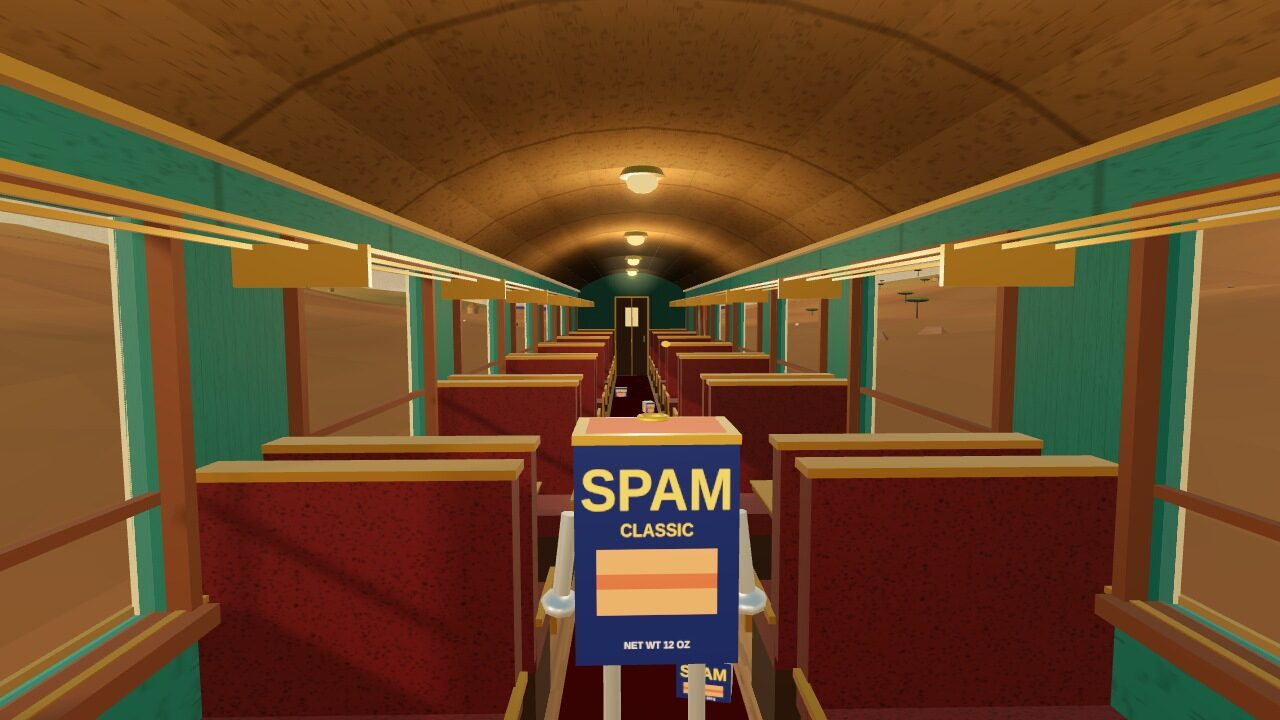
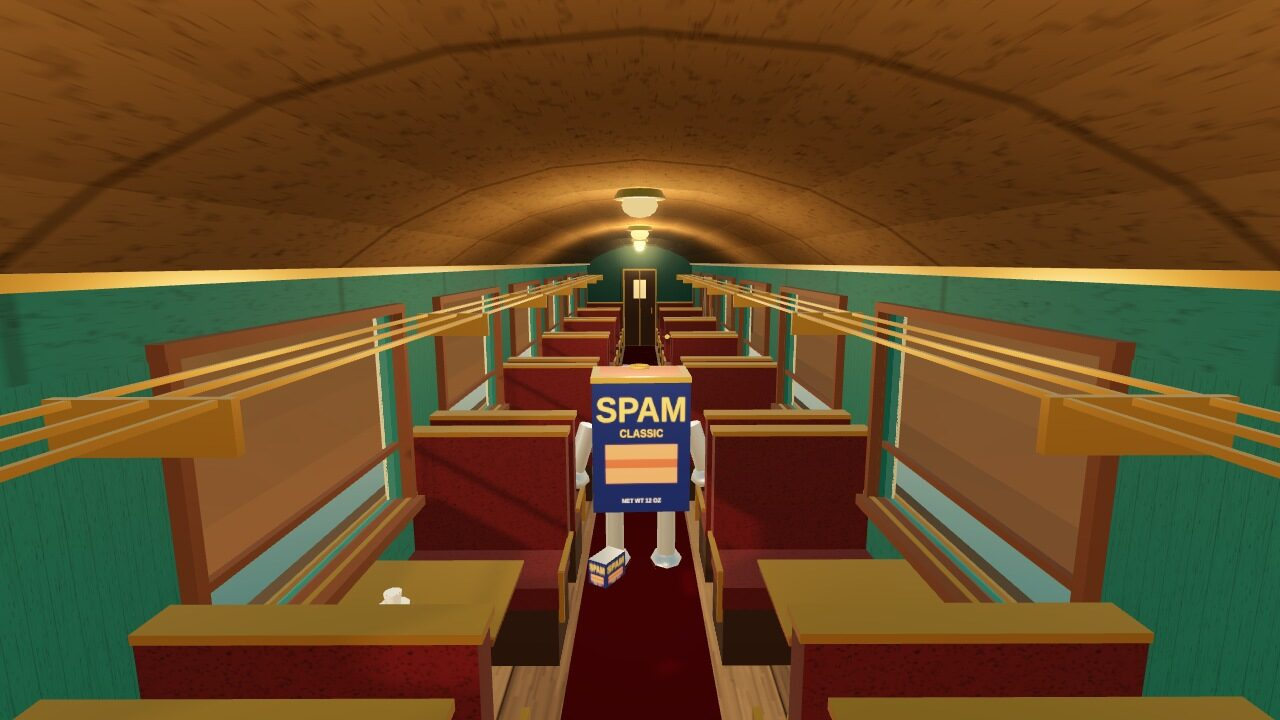
SPAM on a Train: a seed that shows the whole can
Reframed with the high rear camera (also used by the run rehearsal) so the tin, its arms,
legs and feet and the door ahead are all in frame; larger limbs; the heist's loose cans
are hidden outside Game.

Claude-Session: https://claude.ai/code/session_012XUjiQunF2Sqay1mq7DX2m

diff --git a/train/js/main.js b/train/js/main.js
@@ -209,7 +209,7 @@ function frame() {
   const loc = stepActor(dt); stepTake(dt); stepRun();
   const portal = worlds ? worlds.nearest(tmp.set(actor.x, DIM.FLOOR + 1.2, actor.z), 3.2) : null, own = worlds && worlds.portals.find(p => p.car === loc.car);
   const ctx = { a: actor, car: loc.car, aisleZ: loc.aisleZ, side: actor.seated ? Math.sign(actor.z) || 1 : (own && Math.abs(own.pos.z) > .5 ? Math.sign(own.pos.z) : 1), bee: bees.lead, t: state.t, dist: journey.dist, speed: journey.speed, noseX: train.noseX, tailX: train.tailX };
-  ctx.shoulder = state.shoulder; ctx.heist = game.mode === 'game';
+  ctx.shoulder = state.shoulder; ctx.heist = game.mode === 'game'; ctx.high = state.high || run.on;   // the run and its seed use the high rear camera: whole body, feet and the door ahead
   if (ctx.heist && !state.bee && !run.on && rig.st.shot.id !== 'follow') setShot('follow', true);
   if (ctx.heist && !state.bee) { input.yaw = input.pitch = 0; rig.st.yaw = rig.st.pitch = 0; rig.st.zoom = 1; }   // the heist camera is fixed: a stray drag must not tip the lens
   if (ctx.heist) { const cN = cars[cars.length - 1]; if (actor.x < cN.x + cN.walkMin + .6) actor.cam = 1; if (actor.x > cars[0].x - DIM.L / 2 + 2.2) actor.cam = -1; }
@@ -268,7 +268,7 @@ async function seed(id) {
   const c = cars[sd.car]; state.take = false; state.walkGoal = null; journey.dist = sd.km * 1000; journey.phase = 'run'; journey.speed = journey.cruise;
   if (sd.seat !== undefined) { const st = sd.seat < 0 ? c.playerSeat : c.seats[sd.seat]; actor.seated = true; actor.seat = { car: c, ...st }; actor.x = c.x + st.x; actor.z = st.z; actor.dir = st.face; }
   else { actor.seated = false; actor.x = c.x + sd.x; actor.dir = sd.dir || -1; actor.z = c.aisleZ + (sd.z || 0); actor.yaw = actor.dir * Math.PI / 2; if (sd.walk) state.walkGoal = actor.x + actor.dir * sd.walk; }
-  state.forceSwarm = !!sd.swarm; state.empty = !!sd.empty; setCans(!!sd.cans); if (sd.cans && game.mode === 'game') gameSys.setMode('world'); setShot(sd.shot); const st = rig.st; st.yaw = sd.yaw || 0; st.pitch = sd.pitch || 0; st.zoom = sd.zoom || 1; if (sd.mt !== undefined) st.mem.t0 = state.t - sd.mt;
+  state.forceSwarm = !!sd.swarm; state.empty = !!sd.empty; setCans(!!sd.cans); state.high = !!sd.high; actor.cam = actor.dir; if (sd.cans && game.mode === 'game') gameSys.setMode('world'); setShot(sd.shot); const st = rig.st; st.yaw = sd.yaw || 0; st.pitch = sd.pitch || 0; st.zoom = sd.zoom || 1; if (sd.mt !== undefined) st.mem.t0 = state.t - sd.mt;
   document.body.classList.add('nohud'); return sd;
 }
 function b64(buf) { let s = ''; const u = new Uint8Array(buf); for (let i = 0; i < u.length; i += 32768) s += String.fromCharCode.apply(null, u.subarray(i, i + 32768)); return btoa(s); }
@@ -298,7 +298,7 @@ const run = { on: false, cars: [], n: 1 };
 async function startRun() {
   if (!seeds) seeds = (await (await fetch('data/seeds.json')).json()).seeds;
   const spam = params.get('run') !== 'worlds';   // ?run is SPAM on a Train; ?run=worlds is the earlier corpus run
-  run.cars = spam ? (await (await fetch('data/spam_session.json')).json()).run.map((c, k) => ({ ...c, car: k + 1 })) : seeds.filter(x => x.run).sort((a, b) => a.run - b.run); run.on = true; run.n = 1; state.take = false; state.stings = 0; state.empty = spam || !!run.cars[0].empty; setCans(spam); if (game.mode === 'game') gameSys.setMode('world');
+  run.cars = spam ? (await (await fetch('data/spam_session.json')).json()).run.map((c, k) => ({ ...c, car: k + 1 })) : seeds.filter(x => x.run).sort((a, b) => a.run - b.run); run.on = true; run.n = 1; actor.cam = -1; state.take = false; state.stings = 0; state.empty = spam || !!run.cars[0].empty; setCans(spam); if (game.mode === 'game') gameSys.setMode('world');
   if (worlds && worlds.stage.active) await worlds.exit();
   actor.seated = false; actor.x = cars[1].x + 5.6; actor.z = 0; actor.dir = -1; actor.yaw = -Math.PI / 2; state.walkGoal = null; rig.set('follow'); ui.shot('follow', false);
   document.body.classList.add('run'); ui.cue(run.cars[0], 1, run.cars.length, true); stub('The run', 'one session · hold W · a cue at every door'); return true;

diff --git a/train/js/cans.js b/train/js/cans.js
@@ -8,7 +8,7 @@ function label(k) { if (!texCache.has(k)) { const [name, a, b] = FLAVORS[k % FLA
     q.fillStyle = '#e9a26a'; q.fillRect(34, 150, 188, 96); q.fillStyle = '#c96a4a'; q.fillRect(34, 186, 188, 22); q.fillStyle = b; q.font = '800 26px Arial, sans-serif'; q.fillText(name, 128, 124, 236); q.fillStyle = '#fff'; q.font = '700 15px Arial'; q.fillText('NET WT 12 OZ', 128, 292);
     const t = new THREE.CanvasTexture(c); t.colorSpace = THREE.SRGBColorSpace; t.anisotropy = 4; texCache.set(k, t); } return texCache.get(k); }
 const tin = new THREE.MeshStandardMaterial({ color: 0xb9bfc2, metalness: .9, roughness: .28 }), gold = new THREE.MeshStandardMaterial({ color: 0xe0b23a, metalness: .9, roughness: .3 }), meat = new THREE.MeshLambertMaterial({ color: 0xe9968a }), white = new THREE.MeshBasicMaterial({ color: 0xffffff }), black = new THREE.MeshBasicMaterial({ color: 0x111111 });
-const W = .6, H = .82, D = .4, LEG = .42, limbG = new THREE.CylinderGeometry(.035, .035, 1, 8), bodyG = new THREE.BoxGeometry(W, H, D), jointG = new THREE.SphereGeometry(.06, 8, 6);
+const W = .6, H = .82, D = .4, LEG = .42, limbG = new THREE.CylinderGeometry(.06, .06, 1, 8), bodyG = new THREE.BoxGeometry(W, H, D), jointG = new THREE.SphereGeometry(.085, 8, 6);
 export function makeCan(k = 0) {
   const g = new THREE.Group(), body = new THREE.Group(); g.add(body); body.position.y = LEG + H / 2;
   const side = new THREE.MeshStandardMaterial({ map: label(k), roughness: .4, metalness: .25 }), plain = new THREE.MeshStandardMaterial({ color: FLAVORS[k % FLAVORS.length][1], roughness: .4, metalness: .25 });
@@ -18,10 +18,11 @@ export function makeCan(k = 0) {
   for (const s of [-1, 1]) { const e = new THREE.Mesh(new THREE.SphereGeometry(.06, 10, 8), white), p = new THREE.Mesh(new THREE.SphereGeometry(.03, 8, 6), black); e.position.set(s * .13, H * .33, D / 2 + .02); p.position.set(s * .13, H * .33, D / 2 + .07); body.add(e, p); }
   const limb = (x, y, len) => { const pivot = new THREE.Group(); pivot.position.set(x, y, 0); const m = new THREE.Mesh(limbG, tin); m.scale.y = len; m.position.y = -len / 2; const j = new THREE.Mesh(jointG, tin); j.position.y = -len; j.scale.set(1.3, .7, 1.8); pivot.add(m, j); return pivot; };
   const legs = [-1, 1].map(s => { const l = limb(s * .17, LEG, LEG); g.add(l); return l; }), arms = [-1, 1].map(s => { const a = limb(s * (W / 2 + .03), H * .12, .36); body.add(a); return a; });
+  g.scale.setScalar(1.15);   // head-high to a seated passenger, so arms and legs read from behind
   let ph = Math.random() * 6, open = 0;
   return { group: g, k, /** speed in m/s; sitting folds the legs forward; lidOpen 0..1 shows the loaf */
     update(dt, speed, sitting, lidOpen = 0) { const w = Math.min(1, speed / .5); ph += dt * (4 + speed * 5) * (w > .05 ? 1 : .15); const sw = Math.sin(ph) * .7 * w;
-      legs[0].rotation.x = sitting ? -1.5 : sw; legs[1].rotation.x = sitting ? -1.5 : -sw; arms[0].rotation.x = -sw * .8 + (lidOpen > .3 ? -2.2 * lidOpen : 0); arms[1].rotation.x = sw * .8; arms[0].rotation.z = -.12; arms[1].rotation.z = .12;
+      legs[0].rotation.x = sitting ? -1.5 : sw; legs[1].rotation.x = sitting ? -1.5 : -sw; arms[0].rotation.x = -sw * .8 + (lidOpen > .3 ? -2.2 * lidOpen : 0); arms[1].rotation.x = sw * .8; arms[0].rotation.z = -.3; arms[1].rotation.z = .3;   // held a little out from the tin, so the silhouette has arms
       body.position.y = (sitting ? .12 : LEG) + H / 2 + Math.abs(Math.sin(ph)) * .03 * w; body.rotation.z = Math.sin(ph) * .05 * w; body.rotation.y = Math.sin(ph * .5) * .04 * (1 - w);
       open += (lidOpen - open) * Math.min(1, dt * 10); lid.rotation.x = -open * 1.3; loaf.position.y = H / 2 - .06 + open * .12; } };
 }

diff --git a/train/js/heist.js b/train/js/heist.js
@@ -45,9 +45,11 @@ export function createHeist({ scene, cars, train, props, people, actor, state, s
     if (sys.cloud.visible && actor.roof) { const s = sys.swarm.p; t.v.set(s.x - actor.x, s.y - y0 + 2, s.z - actor.z).normalize().multiplyScalar(13); }   // on the roof it flies at the swarm
     t.live = 1.6; deed('swat'); return true;
   }
+  let shown = true;
   function update(dt, ci) {
-    if (game.mode !== 'game') return;
-    for (const c of H.loose) if (c.m.visible && Math.abs(c.x - actor.x) < .9 && !actor.roof) { c.m.visible = false; H.spam++; H.left[c.car]--; stub('+1 SPAM', cars[c.car].name); }
+    const on = game.mode === 'game'; if (on !== shown) { shown = on; for (const c of H.loose) c.m.visible = on && !c.taken; }   // the loose cans belong to the heist; the film and the run do not see them
+    if (!on) return;
+    for (const c of H.loose) if (c.m.visible && Math.abs(c.x - actor.x) < .9 && !actor.roof) { c.m.visible = false; c.taken = true; H.spam++; H.left[c.car]--; stub('+1 SPAM', cars[c.car].name); }
     for (const t of throwsPool) {
       if (t.live > 0) { t.live -= dt; t.v.y -= 9.8 * dt; t.m.position.addScaledVector(t.v, dt); t.m.rotation.x += dt * 9; t.m.rotation.z += dt * 6;
         const floor = (t.m.position.y > F + 2 || actor.roof ? F + DIM.ROOF + .24 : F + .1);

diff --git a/train/js/rig.js b/train/js/rig.js
@@ -12,7 +12,7 @@ const heistY = x => { const lx = (((x + L / 2) % DIM.SPAN) + DIM.SPAN) % DIM.SPA
 /** frame: what the shot is attached to. inside: lens is in the carriage (so it gets wall clamping and lamp light). */
 export const SHOTS = [
   { id: 'follow', label: 'Follow', frame: 'passenger', inside: true, fov: 58, lens: '28mm corridor',
-    at: c => c.heist && !c.a.roof ? { fov: innerHeight > innerWidth ? 76 : 62, pos: V(c.a.x - c.a.cam * 4.3, F + heistY(c.a.x - c.a.cam * 4.3), c.aisleZ), look: V(c.a.x + c.a.cam * 4, F + .9, c.aisleZ + (c.a.z - c.aisleZ) * .5) }
+    at: c => (c.heist || c.high) && !c.a.roof ? { fov: innerHeight > innerWidth ? 76 : 62, pos: V(c.a.x - c.a.cam * 4.3, F + heistY(c.a.x - c.a.cam * 4.3), c.aisleZ), look: V(c.a.x + c.a.cam * 4, F + .9, c.aisleZ + (c.a.z - c.aisleZ) * .5) }
       : c.a.roof ? { free: true, pos: V(c.a.x - (c.heist ? c.a.cam : c.a.dir) * 4.6, F + ROOF + 2.3, c.a.z * .4 + .9), look: V(c.a.x + (c.heist ? c.a.cam : c.a.dir) * 6, F + ROOF + 1.1, c.a.z * .5) }
       : c.a.seated ? { pos: V(c.a.x - c.a.dir * 1.55, F + 1.52, c.a.z - c.side * 1.0), look: V(c.a.x + c.a.dir * .9, F + 1.12, c.a.z + c.side * .9) }
       : { pos: V(c.a.x - c.a.dir * 2.5, F + 1.72, c.aisleZ + .1), look: V(c.a.x + c.a.dir * 3, F + 1.3, c.a.z) } },
